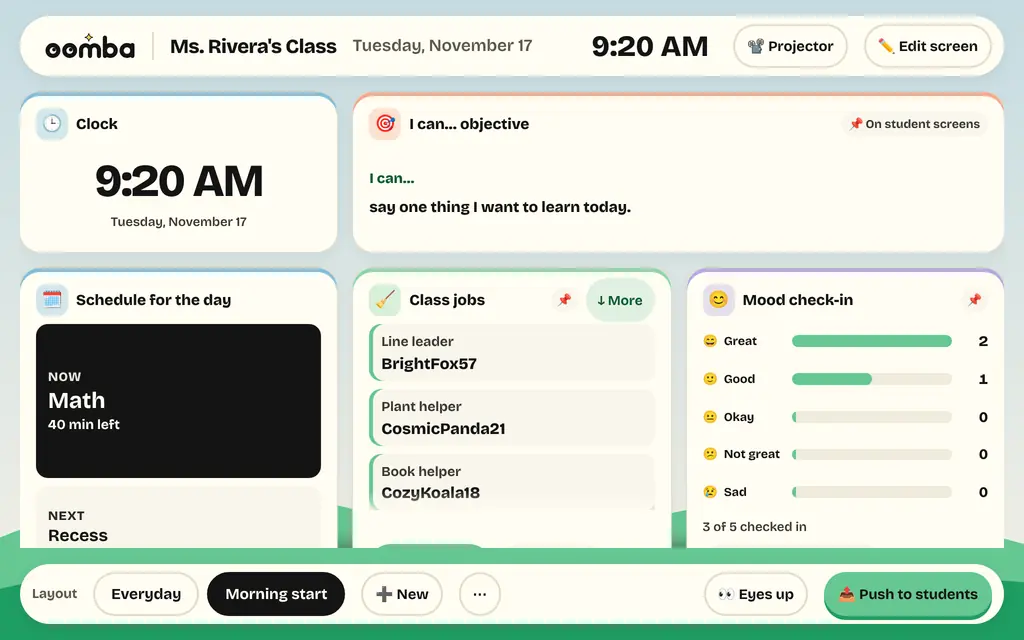
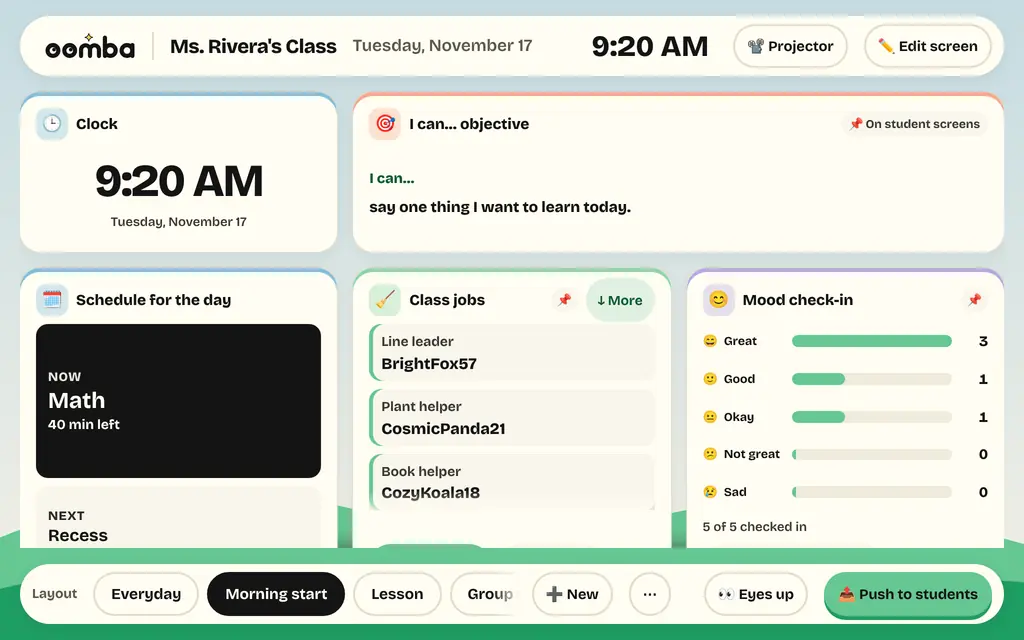
Landing: a scrolling tour of every dashboard layout and widget
A new section after Class dashboards. On wide screens it stays in place
while the page scrolls and the five ready-made layouts come forward one
by one like a deck, each with its name, description and widgets; then
every widget slides past in two rows. Without script, with reduced
motion or on a narrow screen it is a plain list. Real screenshots of
each layout in use come from scripts/how-shots.js; the words reuse the
app's own and add four in all 13 languages.

Claude-Session: https://claude.ai/code/session_01KYpNxvttwPzTyEaY2qgWJU

Changed region(s): [[0.0625, 0.9062, 0.8125, 1.0], [0.7812, 0.5625, 0.8438, 0.6875]]

diff --git a/scripts/how-shots.js b/scripts/how-shots.js
@@ -165,9 +165,11 @@ const randomIp = () => `10.${1 + crypto.randomInt(250)}.${crypto.randomInt(250)}
 function makeShooter({ browser, BASE, PNG }) {
   const PHONE = { viewport: { width: 390, height: 844 }, deviceScaleFactor: 2, isMobile: true, hasTouch: true };
   const DESK = { viewport: { width: 1024, height: 640 }, deviceScaleFactor: 2 };
+  // A whole dashboard layout (8 rows) on one screen: 1600 × 1000 CSS px, saved 2048 wide like the desktop shots.
+  const WIDE = { viewport: { width: 1600, height: 1000 }, deviceScaleFactor: 1.28 };
   /** A signed-in (or signed-out) page for one person on one device. */
   async function person(kind, username, { timezoneId } = {}) {
-    const ctx = await browser.newContext({ ...(kind === 'phone' ? PHONE : DESK), baseURL: BASE, colorScheme: 'light', locale: 'en-US', reducedMotion: 'reduce', ...(timezoneId ? { timezoneId } : {}) });
+    const ctx = await browser.newContext({ ...(kind === 'phone' ? PHONE : kind === 'wide' ? WIDE : DESK), baseURL: BASE, colorScheme: 'light', locale: 'en-US', reducedMotion: 'reduce', ...(timezoneId ? { timezoneId } : {}) });
     await ctx.setExtraHTTPHeaders({ 'X-Forwarded-For': randomIp() });
     const page = await ctx.newPage();
     page.setDefaultTimeout(20_000);
@@ -527,6 +529,12 @@ async function liveShots({ person, shot }, ids) {
   return made;
 }
 
+/** The video widget's stand-in (its host is never reached from here): plain and unbranded, as scripts/dash-video.js. */
+const VIDEO_STAND_IN = `<!doctype html><html><head><style>html,body{margin:0;height:100%;overflow:hidden;font-family:system-ui,sans-serif}
+body{display:grid;place-items:center;background:linear-gradient(135deg,#2f6bff,#8b5cf6 55%,#ec4899);color:#fff}
+.eq{display:flex;gap:10px;align-items:flex-end;height:90px;justify-content:center}.eq i{width:16px;border-radius:8px;background:rgba(255,255,255,.9)}
+p{margin:18px 0 0;font-size:26px;font-weight:800;text-align:center}</style></head><body><div><div class="eq"><i style="height:40px"></i><i style="height:80px"></i><i style="height:60px"></i><i style="height:90px"></i><i style="height:50px"></i></div><p>Move-and-groove brain break</p></div></body></html>`;
+
 /** 9:20 in New York (the dashboard's time zone for a school without one) on the next weekday still ahead, as ISO. */
 function nextSchoolMorning() {
   const TZ = 'America/New_York';
@@ -552,15 +560,81 @@ async function dashShots({ person, shot }, ids, morning) {
   const teacher = await person('desk', 'MsRivera');
   const origin = new URL(teacher.url()).origin;
   const api = async (p, url, data) => { const r = await p.request.post(url, { data, headers: { Origin: origin } }); if (!r.ok()) throw new Error(`dash: ${url} ${r.status()} ${await r.text()}`); return r.json(); };
-  // Opening the dashboard once makes her starter layout; then the ready-made one, used for the class.
+  // Opening the dashboard once makes her starter layout. Then every ready-made layout in turn, each used by the class
+  // (dash-layout-<id>, the landing's layout tour), and last the morning one again for the shots after.
   await teacher.goto(`/class/${ids.classId}/dashboard`);
-  const made1 = await api(teacher, `/api/dash/${ids.classId}/templates/morning`, {});
-  await api(teacher, `/api/dash/${ids.classId}/layouts/${made1.layout.id}/use`, {});
-  for (const [username, mood] of [['SwiftOtter34', 0], ['BrightFox57', 1], ['CozyKoala18', 0]]) {   // MOODS: 0 great, 1 good
+  for (const [username, mood] of [['SwiftOtter34', 0], ['BrightFox57', 1], ['CozyKoala18', 0], ['ShinyNewt62', 0]]) {   // MOODS: 0 great, 1 good
     const s = await person('desk', username);
-    await api(s, `/api/dash/${ids.classId}/mood`, { mood });
+    await api(s, `/api/dash/${ids.classId}/mood`, { mood }).catch(() => {});   // only once a mood widget is pinned: below
     await s.context().close();
   }
+  const layouts = {};
+  for (const tpl of ['morning', 'lesson', 'group', 'quiet', 'fun']) layouts[tpl] = (await api(teacher, `/api/dash/${ids.classId}/templates/${tpl}`, {})).layout;
+  // Fun break's video widget with a link, as a teacher would paste one (its host answers with a stand-in below).
+  const fun = layouts.fun;
+  await api(teacher, `/api/dash/${ids.classId}/layouts/${fun.id}`, { widgets: fun.widgets.map(w => (w.type === 'video' ? { ...w, s: { ...w.s, video: { p: 'youtube', id: 'aqz-KE-bpKQ' }, mute: true } } : w)) });
+  const students = [];
+  for (const [, username] of STUDENTS) students.push(await person('desk', username));
+  const use = id => api(teacher, `/api/dash/${ids.classId}/layouts/${id}/use`, {});
+  const W = (p, type) => p.locator(`.dash-w[data-id^="${type}"]`).first();
+  const tour = {
+    async morning() {
+      await use(layouts.morning.id);
+      for (const [i, s] of students.entries()) await api(s, `/api/dash/${ids.classId}/mood`, { mood: [0, 1, 0, 2, 0][i] });
+    },
+    async lesson(p) {
+      const ch = await api(teacher, `/api/dash/${ids.classId}/checks`, { kind: 'thumbs', question: 'Can you compare 3/8 and 3/5?' });
+      const cid = ch.check;   // createCheck answers { check: id }
+      for (const [i, s] of students.entries()) {
+        if (cid) await api(s, `/api/dash/${ids.classId}/checks/${cid}/answer`, { value: [0, 0, 1, 0, 2][i] });
+        if (i < 2) await api(s, `/api/dash/${ids.classId}/help`, { kind: i === 0 ? 'help' : 'done' });
+      }
+      return async () => {
+        await W(p, 'timer').getByRole('button', { name: /^Start$/ }).click();
+        await W(p, 'numline').getByRole('button', { name: /Point$/ }).click();
+        const b = await W(p, 'numline').locator('svg').first().boundingBox();
+        if (b) await p.mouse.click(b.x + b.width * 0.62, b.y + b.height * 0.5);
+      };
+    },
+    async group(p) {
+      return async () => {
+        await W(p, 'groups').getByRole('button', { name: /Make groups/ }).click();
+        await W(p, 'timer').getByRole('button', { name: /^Start$/ }).click();
+        for (const [team, n] of [[0, 2], [1, 3], [2, 1]]) for (let k = 0; k < n; k++) await W(p, 'score').getByRole('button', { name: /One point for/ }).nth(team).click();
+      };
+    },
+    async quiet(p) {
+      return async () => {
+        await W(p, 'timer').getByRole('button', { name: /^Start$/ }).click();
+        await W(p, 'breathe').getByRole('button', { name: /^Start$/ }).click();
+      };
+    },
+    async fun(p) {
+      return async () => {
+        await W(p, 'picker').getByRole('button', { name: /Spin/ }).click();
+        await W(p, 'dice').getByRole('button', { name: /Roll$/ }).click();
+        await p.waitForTimeout(5500);   // the wheel stops
+      };
+    },
+  };
+  for (const tpl of ['morning', 'lesson', 'group', 'quiet', 'fun']) {
+    if (tpl !== 'morning') await use(layouts[tpl].id);
+    const p = await person('wide', 'MsRivera', { timezoneId: 'America/New_York' });
+    await p.clock.setFixedTime(new Date(morning));
+    await p.route(/^https:\/\/(www\.youtube-nocookie\.com|player\.vimeo\.com)\//, r => r.fulfill({ contentType: 'text/html', body: VIDEO_STAND_IN }));
+    const after = await tour[tpl](p);
+    await p.goto(`/class/${ids.classId}/dashboard`);
+    await p.locator('.dash-w').first().waitFor(); await p.waitForTimeout(1200);
+    if (after) await after();
+    await p.waitForTimeout(1500);
+    made.push({ slug: `dash-layout-${tpl}`, kind: 'wide', png: await shot(p, `dash-layout-${tpl}`, { names: true }) });
+    await p.context().close();
+  }
+  // The lesson's quick check is over, and the class follows the morning layout again, for the shots below.
+  const live = await teacher.request.get(`/api/dash/${ids.classId}/live`).then(r => r.json()).catch(() => ({}));
+  for (const c of live.checks || []) if (c.open) await api(teacher, `/api/dash/${ids.classId}/checks/${c.id}/end`, {});
+  await use(layouts.morning.id);
+  for (const s of students) await s.context().close();
   await teacher.context().close();
   // The browser's clock too (the clock and schedule widgets read it), fixed at the same morning.
   const ready = async p => { await p.locator('.dash-w').first().waitFor(); await p.waitForTimeout(1200); };
@@ -579,7 +653,7 @@ async function dashShots({ person, shot }, ids, morning) {
 }
 
 // ---------------------------------------------------------------- encode
-const SIZES = { phone: [['p', 390], ['p', 780]], desk: [['d', 1024], ['d', 2048]] };
+const SIZES = { phone: [['p', 390], ['p', 780]], desk: [['d', 1024], ['d', 2048]], wide: [['d', 1024], ['d', 2048]] };
 function hasMagick() { try { return /WEBP/i.test(execFileSync('convert', ['-list', 'format'], { encoding: 'utf8' })) ? 'convert' : null; } catch { return null; } }
 async function encodeAll(made, PNG) {
   fs.mkdirSync(OUT, { recursive: true });

diff --git a/server/routes/landing.js b/server/routes/landing.js
@@ -38,6 +38,7 @@ import { teacherLoop } from '../views/teacher-loop.js';
 import { rateLimit } from '../services/ratelimit.js';
 import { enabled as classroomOn } from '../services/gclassroom.js';
 import { config } from '../config.js';
+import { LAYOUT_TEMPLATES, WIDGETS } from '../services/dash.js';
 
 /** Where "Just Play" goes: the games for kids, no sign-up. */
 export const JUST_PLAY_URL = '/play';
@@ -202,6 +203,36 @@ export function renderLanding(req, res) {
       <div class="lp-screen">${shot('dash-teacher', t('landing.dash.shotAlt'))}</div>
       <div class="lp-phone" data-depth=".16" aria-hidden="true"><img src="/img/how/dash-student-p-390.webp" srcset="/img/how/dash-student-p-390.webp 390w, /img/how/dash-student-p-780.webp 780w" sizes="170px" width="390" height="844" alt="" loading="lazy" decoding="async"></div>
     </figure>
+  </div>
+</section>`;
+
+  // The layout tour (#dash-tour, docs/decisions.md "Dashboard layout tour on the landing"): every ready-made layout
+  // (services/dash.js LAYOUT_TEMPLATES) with its real screenshot, name, description and widgets, then every widget.
+  // Without JavaScript, with reduced motion or on a narrow screen it is a plain list of cards; public/js/landing.js
+  // turns it into a deck that plays as the page scrolls (.is-tour) and slides the widget rows.
+  const wname = id => t(`dash.w.${id}.name`);
+  const icon = id => (WIDGETS.find(w => w.id === id) || {}).icon || '▫';
+  const chip = id => html`<li><span aria-hidden="true">${icon(id)}</span>${wname(id)}</li>`;
+  const tourWidgets = WIDGETS.map(w => w.id);
+  const half = Math.ceil(tourWidgets.length / 2);
+  const dtourSec = html`<section class="lp-sec lp-dtour" id="dash-tour" aria-labelledby="dtour-h">
+  <div class="lp-wrap"><header class="lp-sec-head"><p class="lp-eyebrow"${fb('landing.dtour.kicker')}>${t('landing.dtour.kicker')}</p><h2 id="dtour-h"${fb('landing.dtour.h')}>${t('landing.dtour.h')}</h2><p${fb('landing.dtour.lead')}>${t('landing.dtour.lead')}</p></header></div>
+  <div class="lp-dt" data-dtour style="--n:${LAYOUT_TEMPLATES.length}">
+    <div class="lp-dt-stage"><div class="lp-wrap lp-dt-in">
+      <ol class="lp-dt-list">${LAYOUT_TEMPLATES.map((x, i) => {
+        const types = [...new Set(x.widgets(t).map(([type]) => type))];
+        return html`<li class="lp-dt-item" data-i="${i}">
+        <div class="lp-dt-text"><p class="lp-dt-n" aria-hidden="true" dir="ltr">0${i + 1}<span> / 0${LAYOUT_TEMPLATES.length}</span></p><h3><span aria-hidden="true">${x.icon}</span> ${t(`dash.tpl.${x.id}.name`)}</h3><p>${t(`dash.tpl.${x.id}.desc`)}</p><ul class="lp-dt-chips">${types.map(chip)}</ul></div>
+        <figure class="lp-dt-fig"><div class="lp-screen">${shot(`dash-layout-${x.id}`, `${t(`dash.tpl.${x.id}.name`)}: ${t(`dash.tpl.${x.id}.desc`)}`)}</div></figure>
+      </li>`;
+      })}</ol>
+      <ol class="lp-dt-dots" aria-hidden="true">${LAYOUT_TEMPLATES.map(x => html`<li><span>${x.icon}</span></li>`)}</ol>
+    </div></div>
+  </div>
+  <div class="lp-dt-widgets">
+    <h3 class="lp-dt-wh"${fb('landing.dtour.widgets')}>${t('landing.dtour.widgets', { count: tourWidgets.length })}</h3>
+    <ul class="lp-dt-row" data-row="1">${tourWidgets.slice(0, half).map(chip)}</ul>
+    <ul class="lp-dt-row" data-row="-1">${tourWidgets.slice(half).map(chip)}</ul>
   </div>
 </section>`;
 
@@ -377,7 +408,7 @@ export function renderLanding(req, res) {
     seo.faqLd(faq.map(([q, a]) => [q, seo.plainText(a)])),
   ]);
 
-  const body = html`${sky}${header}<main id="lp-main">${hero}${facts}${how}${loopSec}${builder}${dashSec}${courses}${classroomSec}${liveSec}${why}${safety}${pricing}${faqSec}${final}</main>${footer}`;
+  const body = html`${sky}${header}<main id="lp-main">${hero}${facts}${how}${loopSec}${builder}${dashSec}${dtourSec}${courses}${classroomSec}${liveSec}${why}${safety}${pricing}${faqSec}${final}</main>${footer}`;
   const head = seo.seoHead(req, { index: true, path: '/', langs, image: '/og/landing.jpg', imageAlt: t('landing.meta.imageAlt'), jsonld: [jsonld] }, { title, description });
   res.status(200).type('html').set('Vary', 'Cookie, Accept-Language').send(`<!doctype html>
 <html lang="${esc(locale)}" dir="${esc(info.dir)}" data-theme="${theme}" class="lp-html${theme === 'light' ? ' lp-light' : ''}">

diff --git a/public/js/landing.js b/public/js/landing.js
@@ -100,9 +100,66 @@ function startDemo() {
   document.addEventListener('visibilitychange', () => { if (!document.hidden && visible) loop(); });
 }
 
+// ---- the layout tour (#dash-tour): on a wide screen the section stays put while the page scrolls through it, and the
+// layouts come forward one by one (each rests a moment in front); the widget rows slide sideways, in turn. Without this
+// (narrow screens, reduced motion, no script) it is a plain list. Transforms and opacity only, one frame per scroll burst.
+let tourOn = false;
+function startTour() {
+  const tour = document.querySelector('[data-dtour]');
+  const box = document.querySelector('.lp-dt-widgets');
+  if (!tour || tourOn) return;
+  tourOn = true;
+  const stage = tour.querySelector('.lp-dt-stage');
+  const items = [...tour.querySelectorAll('.lp-dt-item')], dots = [...tour.querySelectorAll('.lp-dt-dots li')];
+  const rows = box ? [...box.querySelectorAll('.lp-dt-row')] : [];
+  const n = items.length;
+  const wide = matchMedia('(min-width: 1000px) and (min-height: 620px)');
+  let deck = false, queued = false;
+  // Within each step, hold still at both ends and glide between (so a layout rests in front for a while).
+  const ease = x => { const f = Math.floor(x), r = x - f, u = Math.min(1, Math.max(0, (r - 0.2) / 0.6)); return f + u * u * (3 - 2 * u); };
+  const set = (el, k, v) => el.style.setProperty(k, v.toFixed(3));
+  function draw() {
+    queued = false;
+    if (deck) {
+      const total = tour.offsetHeight - stage.offsetHeight;
+      const p = ease(Math.min(1, Math.max(0, -tour.getBoundingClientRect().top / total)) * (n - 1) * 0.9999);
+      items.forEach((it, i) => {
+        const d = i - p, past = Math.min(0, d), ahead = Math.max(0, d);
+        set(it, '--d', d); set(it, '--past', past); set(it, '--ahead', ahead);
+        set(it, '--o', Math.max(0, 1 - Math.abs(d) * 2.2));
+        set(it, '--fo', d < 0 ? Math.max(0, 1 + d * 1.4) : Math.max(0, Math.min(1, 4 - ahead)));
+        it.style.zIndex = String(d < 0 ? 200 : 100 - Math.round(ahead * 10));   // a layout leaving goes over the next one
+        it.classList.toggle('on', Math.abs(d) < 0.5);
+      });
+      dots.forEach((dot, i) => dot.classList.toggle('on', Math.round(p) === i));
+    }
+    if (rows.length && box.classList.contains('is-slide')) {
+      const shift = (innerHeight - box.getBoundingClientRect().top - innerHeight * 0.6) * 0.35;
+      for (const row of rows) {
+        const centre = (box.clientWidth - row.scrollWidth) / 2 - row.offsetLeft;   // offsetLeft ignores transforms
+        row.style.transform = `translate3d(${(centre + shift * (+row.dataset.row || 1)).toFixed(1)}px,0,0)`;
+      }
+    }
+  }
+  const kickTour = () => { if (!queued) { queued = true; requestAnimationFrame(draw); } };
+  function mode() {
+    deck = wide.matches && !reduce.matches;
+    tour.classList.toggle('is-tour', deck);
+    if (!deck) for (const it of items) { it.removeAttribute('style'); it.classList.remove('on'); }
+    if (box) { box.classList.toggle('is-slide', !reduce.matches); for (const r of rows) { r.classList.toggle('is-slide', !reduce.matches); if (reduce.matches) r.style.transform = ''; } }
+    draw();
+  }
+  wide.addEventListener?.('change', mode);
+  reduce.addEventListener?.('change', mode);
+  addEventListener('scroll', kickTour, { passive: true });
+  addEventListener('resize', kickTour, { passive: true });
+  addEventListener('load', kickTour, { once: true });
+  mode();
+}
+
 function start() {
   if (reduce.matches) return;
-  startParallax(); startReveal(); startDemo();
+  startParallax(); startReveal(); startDemo(); startTour();
 }
 start();
 reduce.addEventListener?.('change', () => { if (reduce.matches) { stopParallax(); const f = document.querySelector('.lp-demo'); if (f) f.dataset.stage = 'done'; } else start(); });

diff --git a/public/css/landing.css b/public/css/landing.css
@@ -433,3 +433,40 @@ main{position:relative;z-index:1}
 .lp-gc .lp-list{margin-top:0}
 .lp-gc .lp-small a{color:var(--link);font-weight:700}
 .lp-research{text-align:center}
+
+/* ---- the layout tour (#dash-tour): a list of cards; .is-tour (public/js/landing.js, wide screens with motion) makes it a
+   deck that plays as the page scrolls. Each layout's words and picture sit in one item, so the plain list needs no script. */
+.lp-dt-list{list-style:none;margin:0;padding:0;display:grid;gap:clamp(40px,6vw,72px)}
+.lp-dt-item{display:grid;gap:22px 48px;align-items:center}
+@media (min-width:900px){.lp-dt-item{grid-template-columns:minmax(0,.78fr) minmax(0,1.4fr)}}
+.lp-dt-text h3{font-size:clamp(1.5rem,1.2rem + 1.2vw,2.3rem);line-height:1.1;margin:0 0 12px;letter-spacing:-.02em}
+.lp-dt-text>p:not(.lp-dt-n){color:var(--text-2);font-size:clamp(1rem,.95rem + .25vw,1.15rem);margin:0}
+.lp-dt-n{text-align:start;font-weight:800;font-size:14px;letter-spacing:.14em;color:var(--accent-text);margin:0 0 10px}
+.lp-dt-n span{color:var(--muted)}
+.lp-dt-chips,.lp-dt-row{list-style:none;margin:18px 0 0;padding:0;display:flex;flex-wrap:wrap;gap:8px}
+.lp-dt-chips li,.lp-dt-row li{display:inline-flex;align-items:center;gap:8px;padding:8px 14px;border-radius:999px;background:var(--card-solid);border:1px solid var(--line-2);font-weight:650;font-size:15px;white-space:nowrap;color:var(--text)}
+.lp-dt-fig{margin:0}
+.lp-dt-fig img{display:block;width:100%;height:auto}
+.lp-dt-dots{display:none}
+.lp-dt-widgets{position:relative;margin-top:clamp(56px,7vw,96px);text-align:center}
+.lp-dt-wh{font-size:clamp(1.3rem,1.1rem + .8vw,1.9rem);margin:0 auto 22px;padding-inline:var(--gut);letter-spacing:-.015em}
+.lp-dt-row{justify-content:center;padding-inline:var(--gut);max-width:1200px;margin:10px auto 0}
+/* With motion, the widget rows are one line each, slid sideways as the page scrolls (two directions). */
+.lp-ready .lp-dt-row.is-slide{flex-wrap:nowrap;justify-content:flex-start;max-width:none;width:max-content;padding:0;will-change:transform}
+.lp-ready .lp-dt-widgets.is-slide{overflow:hidden;padding-block:6px}
+
+/* The deck: the section stays on screen (sticky) while the page scrolls through it; the layout in front has its words. */
+.lp-dt.is-tour{height:calc(var(--n) * 78vh + 100vh)}
+.is-tour .lp-dt-stage{position:sticky;top:var(--bar);height:calc(100vh - var(--bar));display:flex;align-items:center;overflow:hidden}
+.is-tour .lp-dt-in{position:relative;width:100%;height:min(78vh,720px)}
+.is-tour .lp-dt-list{display:block;position:absolute;inset:0;perspective:1600px}
+.is-tour .lp-dt-item{position:absolute;inset:0;grid-template-columns:minmax(0,.72fr) minmax(0,1.45fr);pointer-events:none}
+.is-tour .lp-dt-item.on{pointer-events:auto}
+.is-tour .lp-dt-text{opacity:var(--o,0);transform:translate3d(0,calc(var(--d,0) * 46px),0)}
+.is-tour .lp-dt-fig{transform-origin:50% 100%;opacity:var(--fo,1);
+  transform:translate3d(calc(var(--ahead,0) * 2.4%),calc(var(--past,0) * 118% - var(--ahead,0) * 11%),0) scale(calc(1 - var(--ahead,0) * .07)) rotateX(calc(var(--past,0) * -16deg));
+  filter:brightness(calc(1 - var(--ahead,0) * .16))}
+.is-tour .lp-dt-fig .lp-screen{box-shadow:var(--shadow),0 0 0 6px rgba(184,179,161,.08),0 30px 80px -30px rgba(0,0,0,.55)}
+.is-tour .lp-dt-dots{display:flex;gap:10px;list-style:none;margin:0;padding:0;position:absolute;left:0;bottom:-6px}
+.is-tour .lp-dt-dots li{display:grid;place-items:center;width:40px;height:40px;border-radius:50%;border:1px solid var(--line-2);background:var(--card-solid);font-size:18px;opacity:.55;transition:opacity .3s,transform .3s}
+.is-tour .lp-dt-dots li.on{opacity:1;transform:scale(1.12);border-color:var(--mint)}

diff --git a/tests/unit/teacher-landing.test.js b/tests/unit/teacher-landing.test.js
@@ -199,3 +199,25 @@ test('class dashboards: a section with the real screenshots, in every language, 
     assert.doesNotMatch(sec, /lang="en"/, `${code}: the dashboards section is translated`);
   }
 });
+
+test('the layout tour: every ready-made layout with its real screenshot and widgets, then every widget; complete without script', async () => {
+  const fs = await import('node:fs');
+  const D = await import('../../server/services/dash.js');
+  const s = (await call(null, '/')).text;
+  const sec = s.slice(s.indexOf('id="dash-tour"'), s.indexOf('</section>', s.indexOf('id="dash-tour"')));
+  assert.ok(sec.length > 500);
+  for (const x of D.LAYOUT_TEMPLATES) {
+    assert.ok(sec.includes(`/img/how/dash-layout-${x.id}-d-1024.webp`), x.id);
+    assert.ok(fs.existsSync(new URL(`../../public/img/how/dash-layout-${x.id}-d-2048.webp`, import.meta.url)), `${x.id} picture is in the repo`);
+  }
+  assert.equal([...sec.matchAll(/class="lp-dt-item"/g)].length, D.LAYOUT_TEMPLATES.length);
+  // Every widget is named once in the rows, with the real count in the heading.
+  const rows = sec.slice(sec.indexOf('class="lp-dt-widgets"'));
+  assert.equal([...rows.matchAll(/<li>/g)].length, D.WIDGETS.length);
+  assert.match(rows, new RegExp(`>${D.WIDGETS.length} widgets to build your own<`));
+  // The deck is the script's (.is-tour); the page as sent is the plain list.
+  assert.doesNotMatch(sec, /is-tour/);
+  const ar = (await call(null, '/ar')).text;
+  const arSec = ar.slice(ar.indexOf('id="dash-tour"'), ar.indexOf('</section>', ar.indexOf('id="dash-tour"')));
+  assert.doesNotMatch(arSec, /lang="en"/, 'translated');
+});

diff --git a/docs/decisions.md b/docs/decisions.md
@@ -6832,3 +6832,24 @@ are shown. Make the name Ms. Haberle's."
   weekday (scripts/how-clock.mjs) and sets the browser's clock and time zone to match, so the schedule shows "Morning
   meeting, then Math".
 - The video file is not in the repo (it is large and is remade by the script).
+
+## Dashboard layout tour on the landing (16 Nov 2026)
+Owner: "make some sort of cool parallax that shows all of the different dashboards and everything it offers."
+- **Where:** a section on "/" right after Class dashboards (`#dash-tour`, server/routes/landing.js): every ready-made
+  layout (services/dash.js `LAYOUT_TEMPLATES`, so a new one shows up by itself) with its real screenshot, its name and
+  description (the app's own `dash.tpl.*` words), and chips for its widgets; then "55 widgets to build your own" with
+  every widget in `WIDGETS` (the app's `dash.w.*.name`). New words: `landing.dtour.*` in all 13 languages.
+- **Motion** (public/js/landing.js `startTour`, on screens at least 1000 × 620 with motion allowed): the section stays on
+  screen (sticky) while the page scrolls through about 78vh per layout; the layouts come forward like a deck (the next
+  ones stacked behind, lifted and dimmed; the one leaving tips back and lifts away), each resting a moment in front, with
+  its words beside it and an icon row for where you are. The widget rows slide sideways in opposite directions as the
+  page scrolls, placed so it works right to left too. Transforms, opacity and a brightness filter only, one frame per
+  scroll burst, passive listeners.
+- **Without it** (no script, reduced motion, or narrower than 1000px): a plain list, each layout's words beside or above
+  its picture, and the widgets as a wrapped cloud. Everything is in the page as sent.
+- **Pictures:** `dash-layout-<id>` from scripts/how-shots.js (`--only dash`), 1600 × 1000 CSS px saved 2048 wide, each
+  layout in use by the demo class (moods, a quick check answered, the help queue, groups and points, the timers, the
+  wheel and dice, the video widget with a plain stand-in as the walkthrough video has).
+- **Checks:** tests/unit/teacher-landing.test.js (every layout and its picture, every widget once, the count, translated
+  in Arabic, no `.is-tour` in the page as sent); landing-audit passes at all six sizes, dark and light; looked at in
+  English, Arabic (right to left) and on a phone, with reduced motion and without JavaScript.
